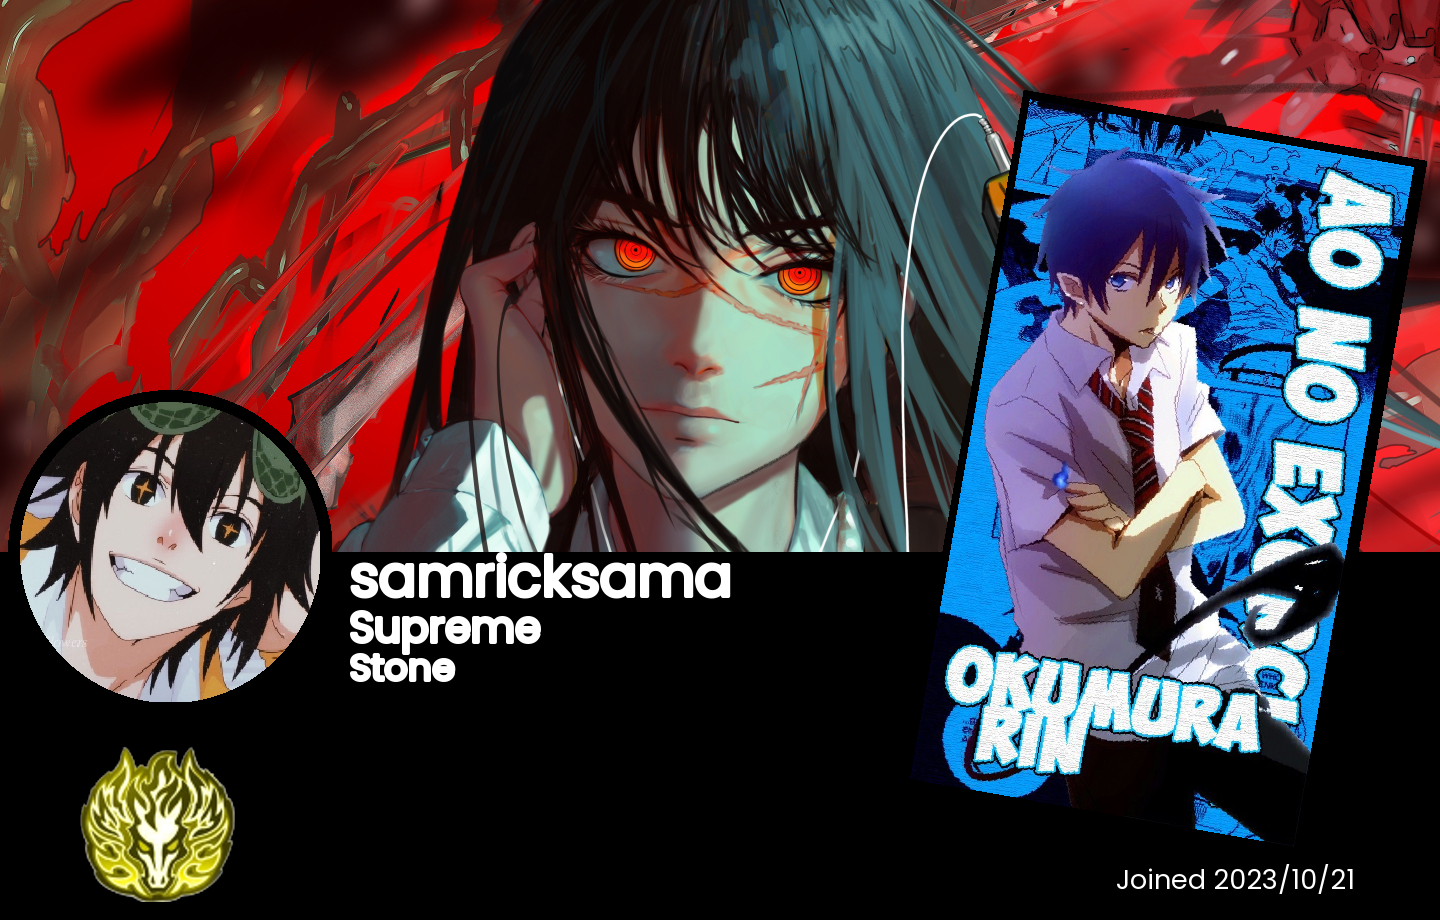
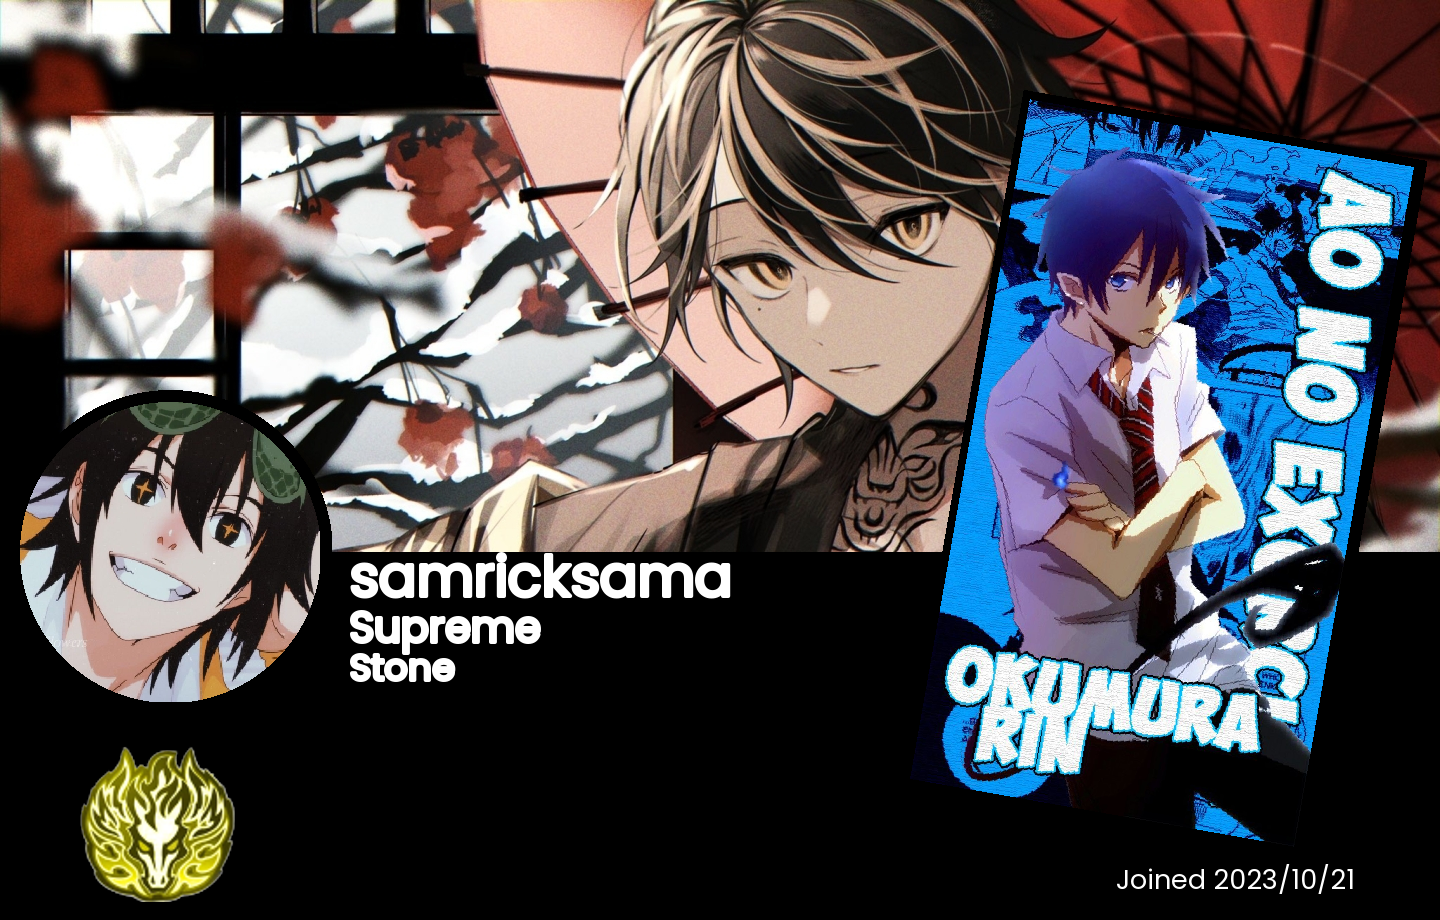
new profile copllete

diff --git a/Convictions/bgshop.py b/Convictions/bgshop.py
@@ -154,10 +154,10 @@ background_descriptions = {
     69: "sun ZIN woo",
     70: "Jirachi",
     71: "war devil",
-    72: "power with silicon boobs",
-    73: "og duo beyblade metal",
-    74: "Otwo cute AF",
-    75: "Nba"
+    72: "power: blood devil",
+    73: "violet : EVERGARDEN",
+    74: "kazutora: tokyo revnegers ",
+    75: "Gundam"
 }
 
 async def show_background_shop(ctx, background_folder, user_balance,  filtered_backgrounds=None):
